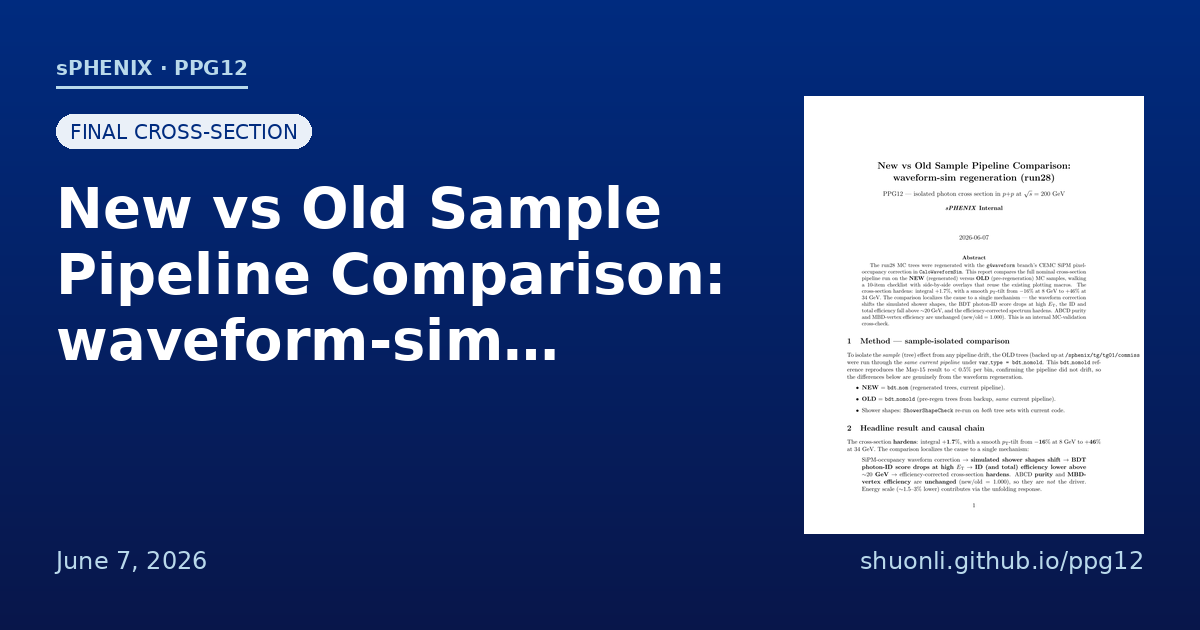
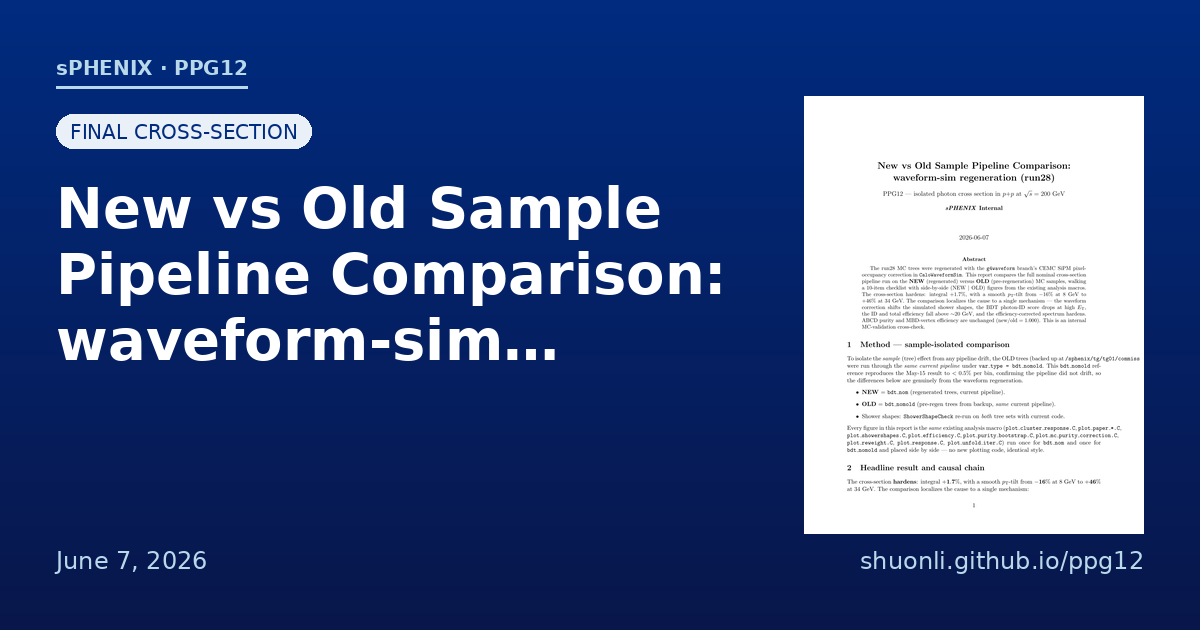
Update new-vs-old comparison: side-by-side existing-macro figures, all 10 checklist items

Changed region(s): [[0.7092, 0.3921, 0.9558, 0.7841]]

diff --git a/index.html b/index.html
@@ -21,7 +21,7 @@
     <div class="container">
       <h1><span class="accent">sPHENIX</span> PPG12 Analysis Results</h1>
       <div class="subtitle">Isolated Photon Cross-Section, pp √s = 200 GeV — sPHENIX</div>
-      <div class="subtitle">Last updated: 2026-06-07 14:53 EDT</div>
+      <div class="subtitle">Last updated: 2026-06-07 15:33 EDT</div>
     </div>
   </header>
 
@@ -189,7 +189,7 @@
             <td data-label="Topic"><span class="tag-pill tag-cross-section">Final Cross-Section</span></td>
             <td data-label="Title"><a href="reports/newvsold_waveform_comparison.html">New vs Old Sample Pipeline Comparison: waveform-sim regeneration (run28)</a><span class="new-badge" title="Added within the last 7 days">NEW</span></td>
             <td data-label="Description">The run28 MC trees were regenerated with the g4waveform branch&#x27;s CEMC SiPM pixel-occupancy correction in CaloWaveformSim. This report compares the full nominal cross-section pipeline run on the NEW (…</td>
-            <td data-label="Size"><a href="reports/newvsold_waveform_comparison.pdf" target="_blank" rel="noopener" class="pdf-link">PDF&nbsp;·&nbsp;0.3 MB</a></td>
+            <td data-label="Size"><a href="reports/newvsold_waveform_comparison.pdf" target="_blank" rel="noopener" class="pdf-link">PDF&nbsp;·&nbsp;1.1 MB</a></td>
           </tr>
           <tr data-topic="purity">
             <td data-label="Preview" class="preview-cell"><a href="reports/mc_purity_correction_investigation.html"><img class="report-thumb" src="reports/_thumbs/mc_purity_correction_investigation.png" alt="" loading="lazy"></a></td>
@@ -225,7 +225,7 @@
           </tr>
           <tr data-topic="double-interaction">
             <td data-label="Preview" class="preview-cell"><a href="reports/double_interaction_note.html"><img class="report-thumb" src="reports/_thumbs/double_interaction_note.png" alt="" loading="lazy"></a></td>
-            <td data-label="Date" title="2026-06-07"><span class="date-relative">1m ago</span><span class="date-absolute">2026-06-07</span></td>
+            <td data-label="Date" title="2026-06-07"><span class="date-relative">2m ago</span><span class="date-absolute">2026-06-07</span></td>
             <td data-label="Topic"><span class="tag-pill tag-double-interaction">Double Interaction / Pileup</span></td>
             <td data-label="Title"><a href="reports/double_interaction_note.html">Double-Interaction (Pileup) Effects in PPG12: Efficiency, Shower Shapes, Truth-Vertex Reweighting, Cluster Size, and Energy Response</a><span class="new-badge" title="Added within the last 7 days">NEW</span></td>
             <td data-label="Description">Run-24 pp data at s = 200 contain two crossing-angle periods (0 mrad and 1.5 mrad) with very different pileup conditions, where two independent collisions in the same bunch crossing shift the reconst…</td>
@@ -233,7 +233,7 @@
           </tr>
           <tr data-topic="purity">
             <td data-label="Preview" class="preview-cell"><a href="reports/donut_iso_variants.html"><img class="report-thumb" src="reports/_thumbs/donut_iso_variants.png" alt="" loading="lazy"></a></td>
-            <td data-label="Date" title="2026-06-07"><span class="date-relative">1m ago</span><span class="date-absolute">2026-06-07</span></td>
+            <td data-label="Date" title="2026-06-07"><span class="date-relative">2m ago</span><span class="date-absolute">2026-06-07</span></td>
             <td data-label="Topic"><span class="tag-pill tag-purity">Purity</span></td>
             <td data-label="Title"><a href="reports/donut_iso_variants.html">Donut iso variants: inner-R truth-purity scan and ABCD closure: All-calo 120 MeV donut with R_outer=0.4 (cross-check)</a><span class="new-badge" title="Added within the last 7 days">NEW</span></td>
             <td data-label="Description">Two new reco-isolation definitions were added as cross-check variants (syst\_type=None, syst\_role=None): donutFull (use\_topo\_iso=4): cluster\_iso\_04 - cluster\_iso\_\005,0075,02\. All-calo 120 Me…</td>

diff --git a/reports/newvsold_waveform_comparison.html b/reports/newvsold_waveform_comparison.html
@@ -26,7 +26,7 @@
     <h2 class="detail-title">New vs Old Sample Pipeline Comparison: waveform-sim regeneration (run28)</h2>
     <div class="detail-meta">
       <span class="detail-date">2026-06-07</span>
-      <span class="detail-size">0.3 MB</span>
+      <span class="detail-size">1.1 MB</span>
       <button class="detail-copy" type="button" data-copy-url="https://shuonli.github.io/ppg12/reports/newvsold_waveform_comparison.html">Copy link</button>
       <button class="detail-fullscreen" type="button">Full screen</button>
       <a class="detail-download pdf-link" href="newvsold_waveform_comparison.pdf" target="_blank" rel="noopener">Download PDF</a>